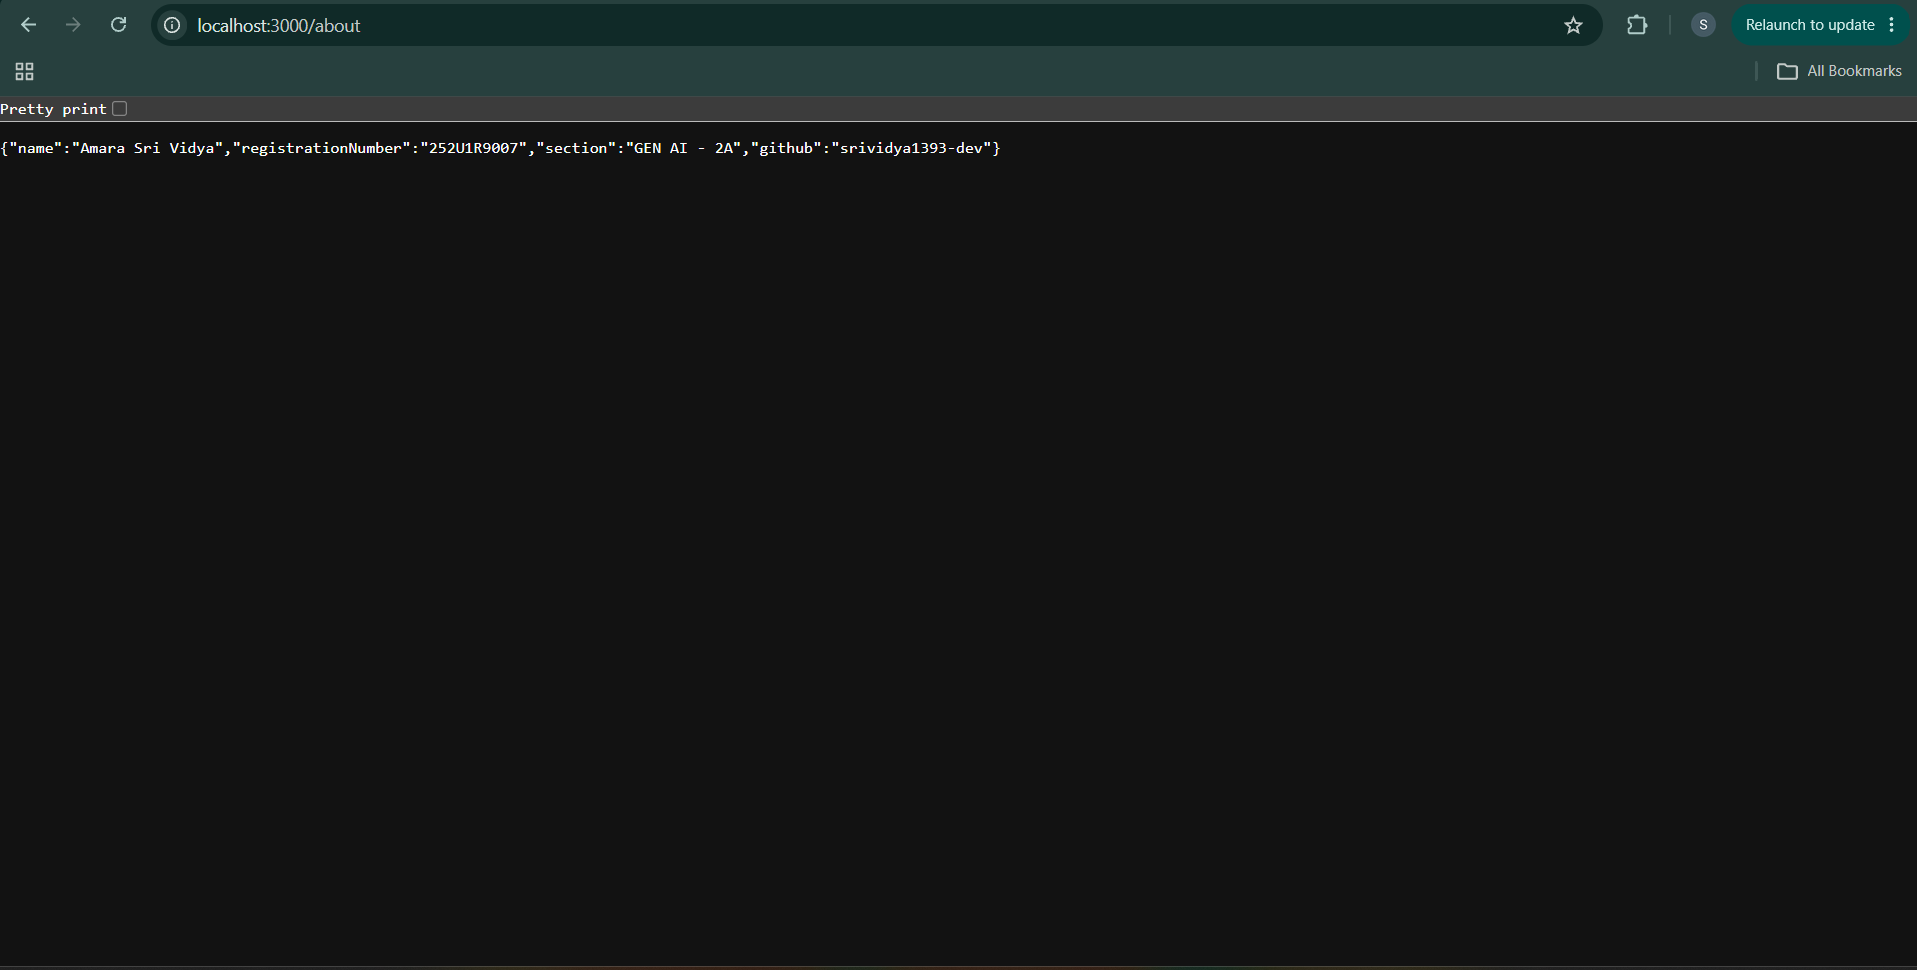
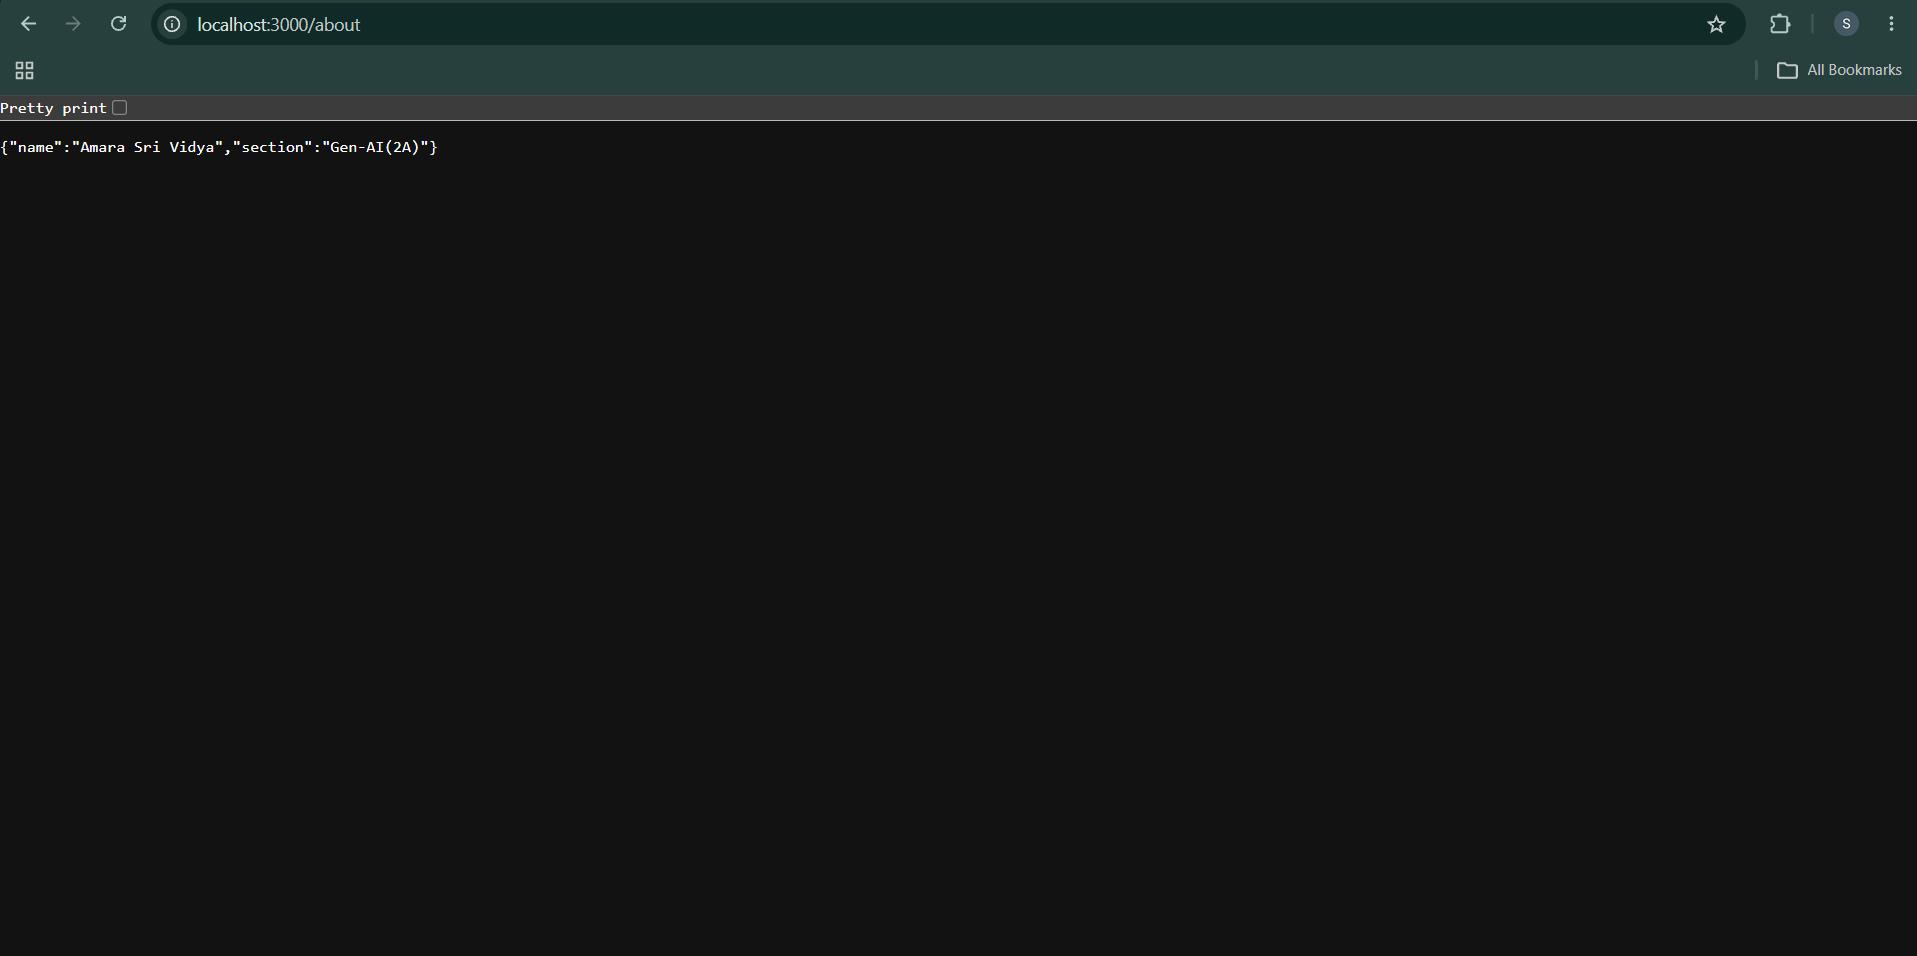
Update code and screenshots

diff --git a/server.js b/server.js
@@ -4,34 +4,32 @@ const express = require("express");
 const app = express();
 const PORT = 3000;
 
-
-app.get("/", (req, res) => {
-    res.send(`
-    <h1>Welcome to Node.js and Express Lab 1</h1>
-    <p>Name: Amara Sri Vidya</p>
-    <p>Registration Number: 252U1R9007</p>
-    <p>Section: GEN AI - 2A</p>
-    <p>GitHub: srividya1393-dev</p>
-  `);
+// Route 1: Welcome page
+app.get("/", (request, response) => {
+    response.status(200).send("Welcome to my Node.js and Express Lab!");
 });
 
-app.get("/about", (req, res) => {
-    res.json({
+// Route 2: About information
+app.get("/about", (request, response) => {
+    response.status(200).json({
         name: "Amara Sri Vidya",
-        registrationNumber: "252U1R9007",
-        section: "GEN AI - 2A",
-        github: "srividya1393-dev"
+        section: "Gen-AI(2A)"
     });
 });
 
-app.get("/time", (req, res) => {
-    res.send(`Server time: ${new Date().toISOString()}`);
+// Route 3: Current date and time
+app.get("/time", (request, response) => {
+    response.status(200).json({
+        currentDateTime: new Date()
+    });
 });
 
-app.use((req, res) => {
-    res.status(404).send("404 - Page Not Found");
+// 404 handler for unknown paths
+app.use((request, response) => {
+    response.status(404).send("404 - Page Not Found");
 });
 
+// Start the server
 app.listen(PORT, () => {
-    console.log(`Server running at http://localhost:${PORT}`);
+    console.log(`Express server running at http://localhost:${PORT}`);
 });
